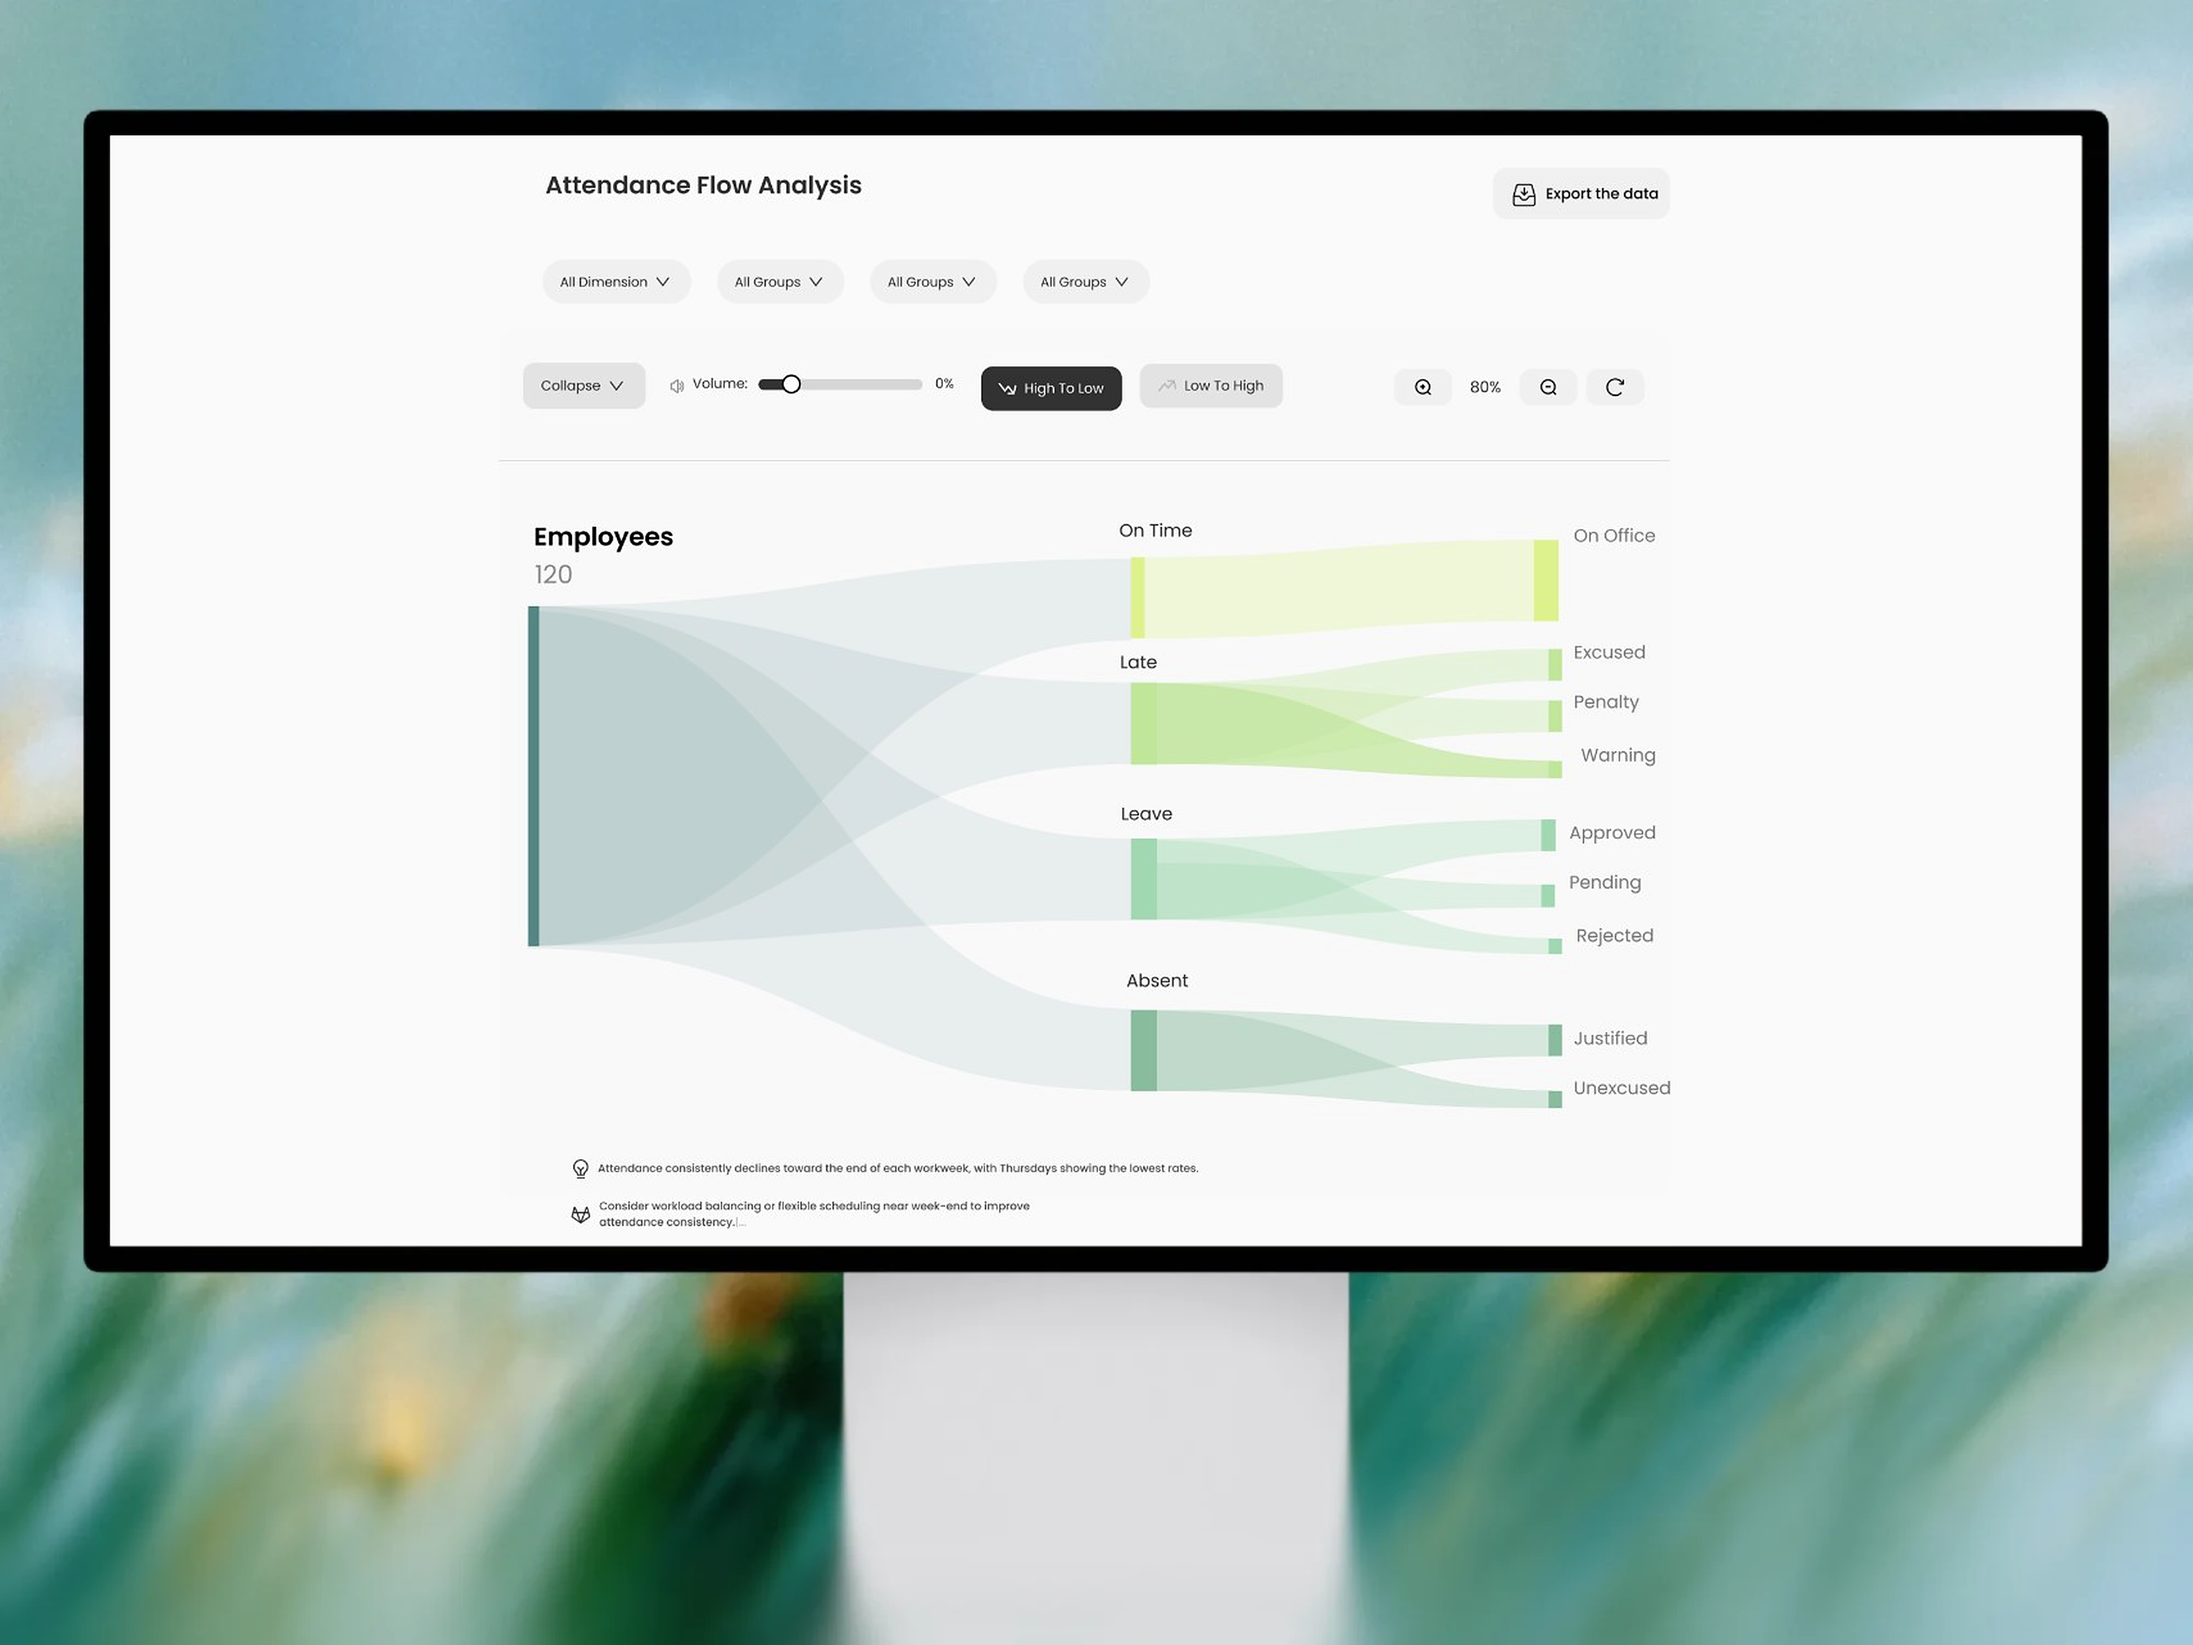
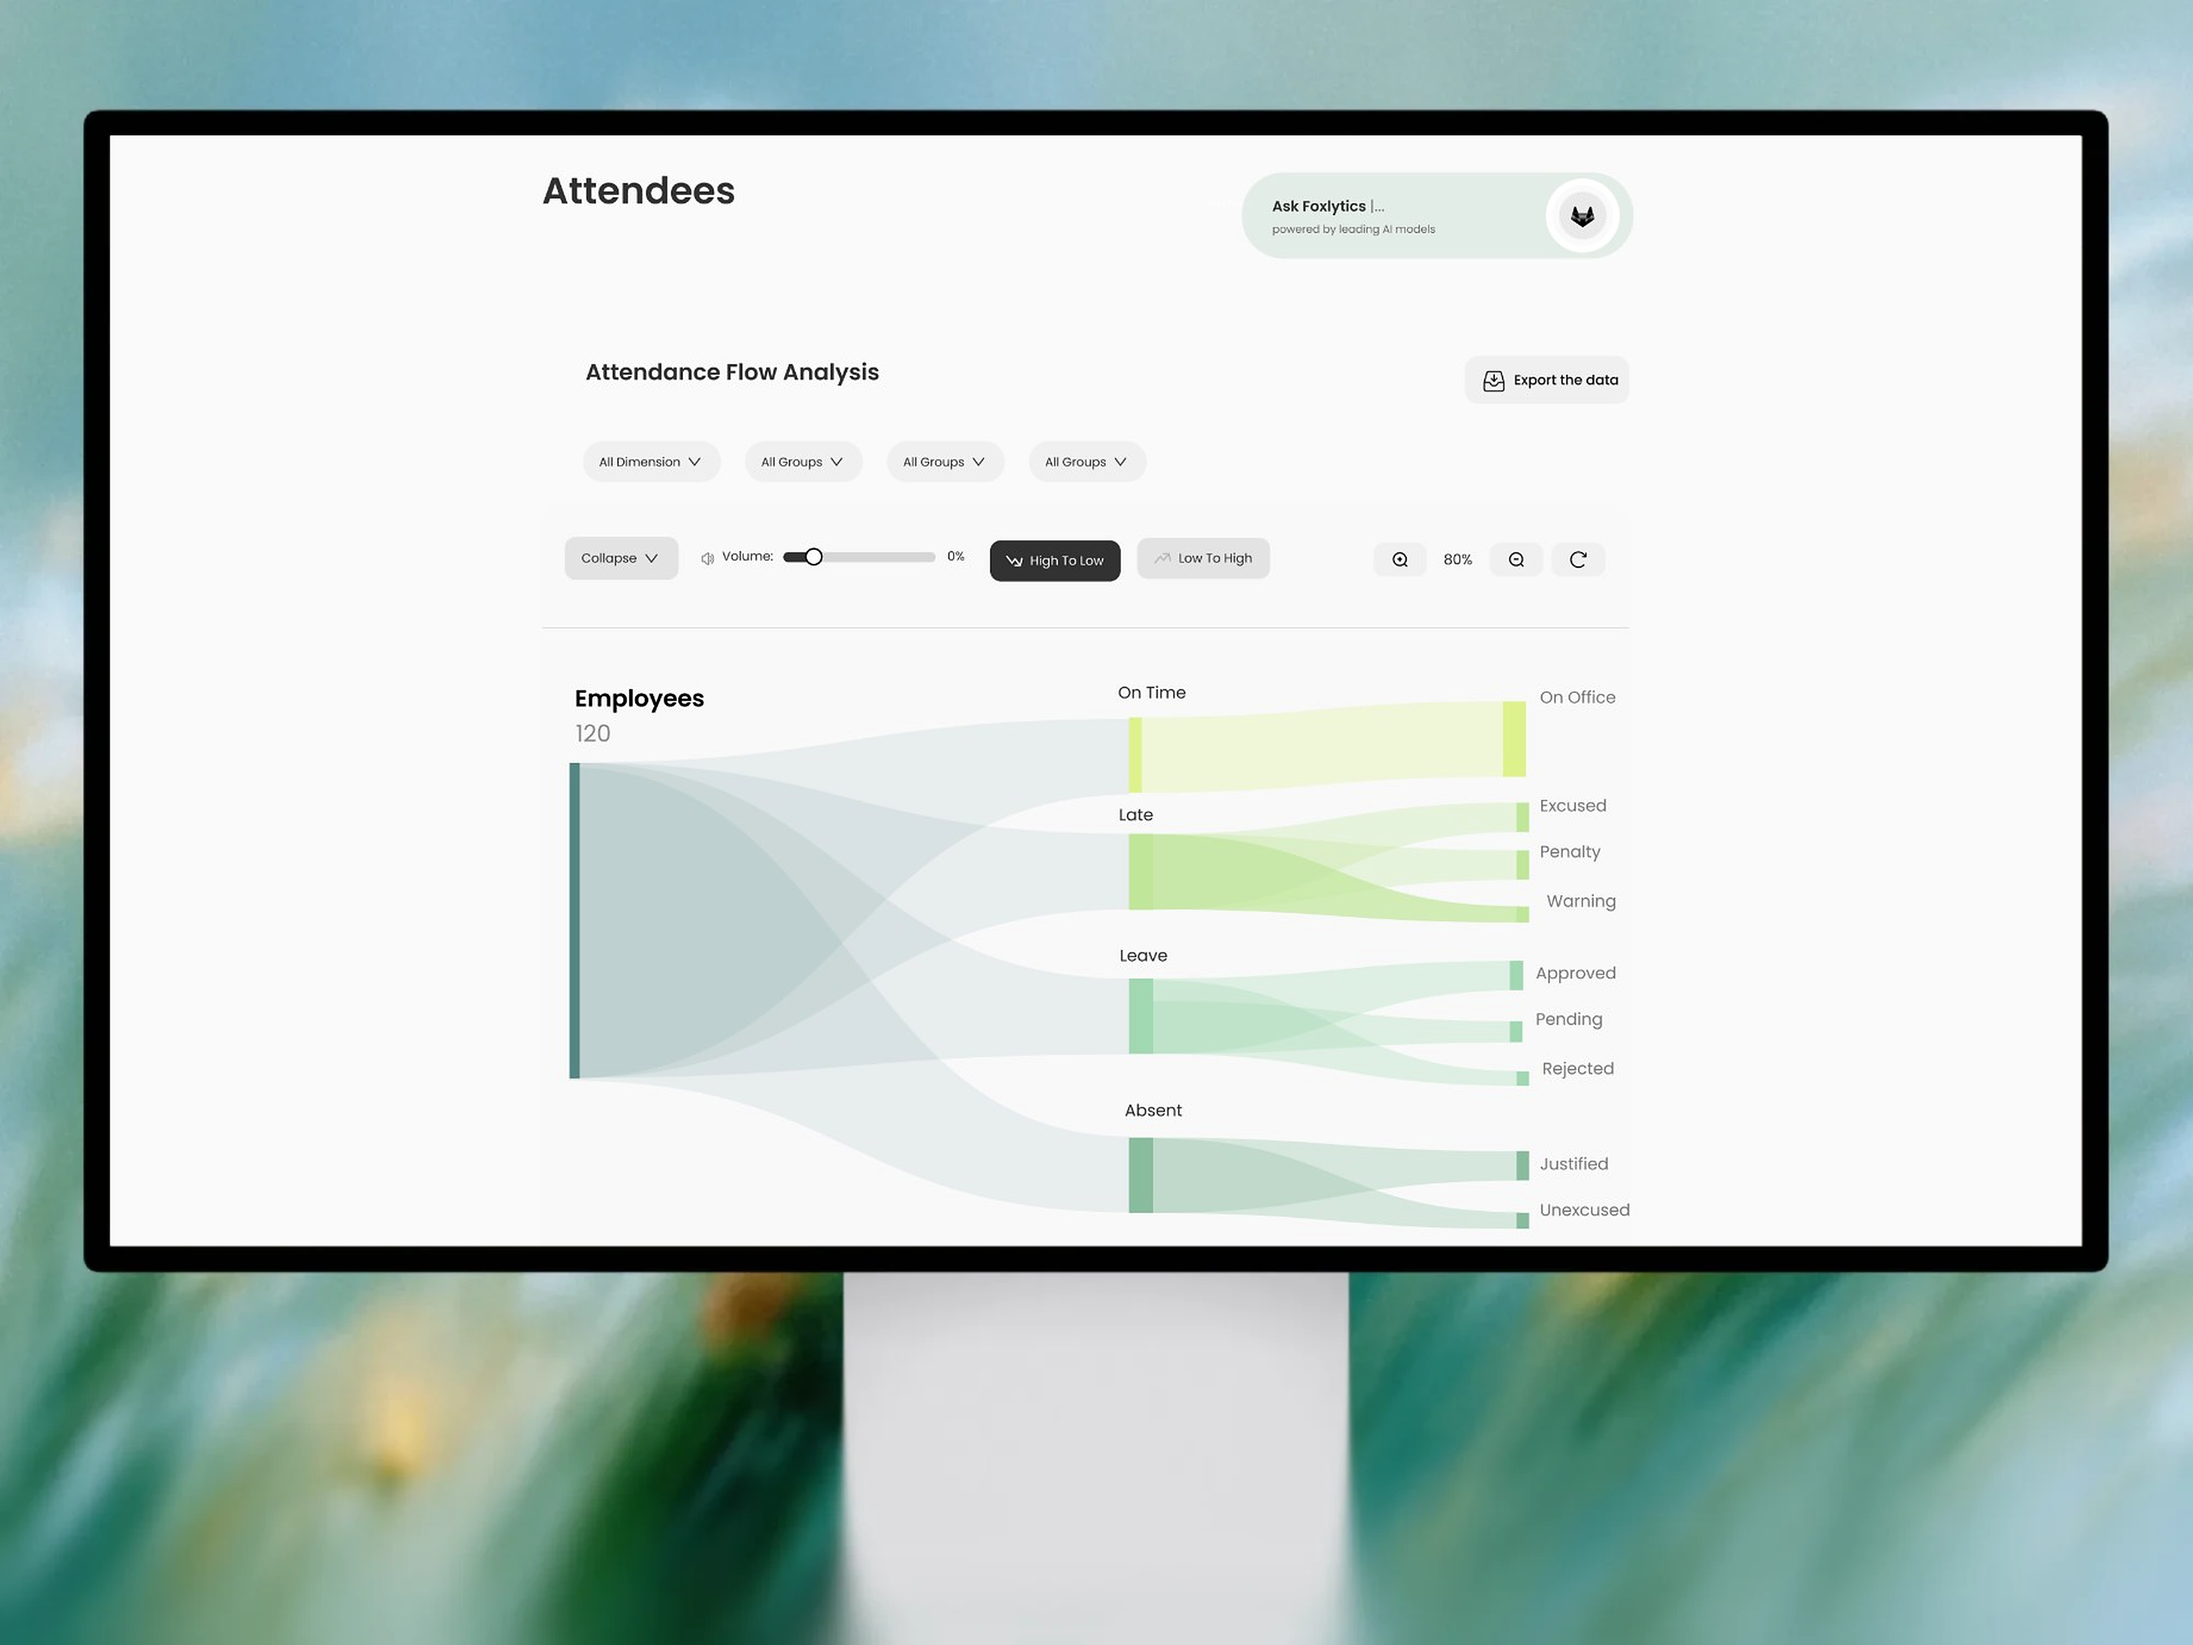
Attendees monitor: a bit more from the top, chart kept whole
Claude-Session: https://claude.ai/code/session_01FdYAnoP1AuAPuCnLWf7gdc

diff --git a/behance-cover/mockups/set36.py b/behance-cover/mockups/set36.py
@@ -3,7 +3,7 @@
 # stretching on the page colour. 4000x3000 PNG (+2000, 1000) and 16:9 artboard.
 from PIL import Image, ImageFilter
 I = '/tmp/claude-0/-home-user-claude-Ai-website-1/fd49522e-f0ff-52ed-b6c7-08cca43cc4fd/images/'
-L, T, R, B = 100.5, 123.5, 1897.5, 1135.5; TOP, BOT = 340, 1205
+L, T, R, B = 100.5, 123.5, 1897.5, 1135.5; TOP, BOT = 180, 1112   # a bit more from the top (Attendees title, Ask Foxlytics) down to the chart's end
 base = Image.open(I + '251.webp').convert('RGB'); page = Image.open(I + '252.jpg').convert('RGB')
 bg = page.getpixel((page.width // 2, page.height - 5)); asp = (R - L) / (B - T)
 h = BOT - TOP; w = round(h * asp); band = Image.new('RGB', (w, h), bg)
